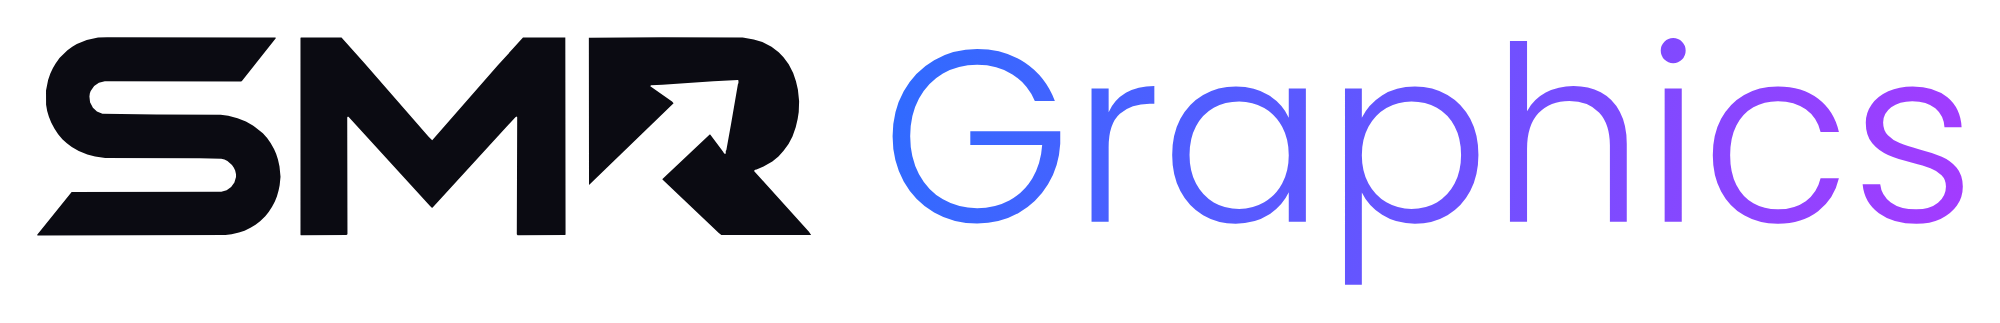
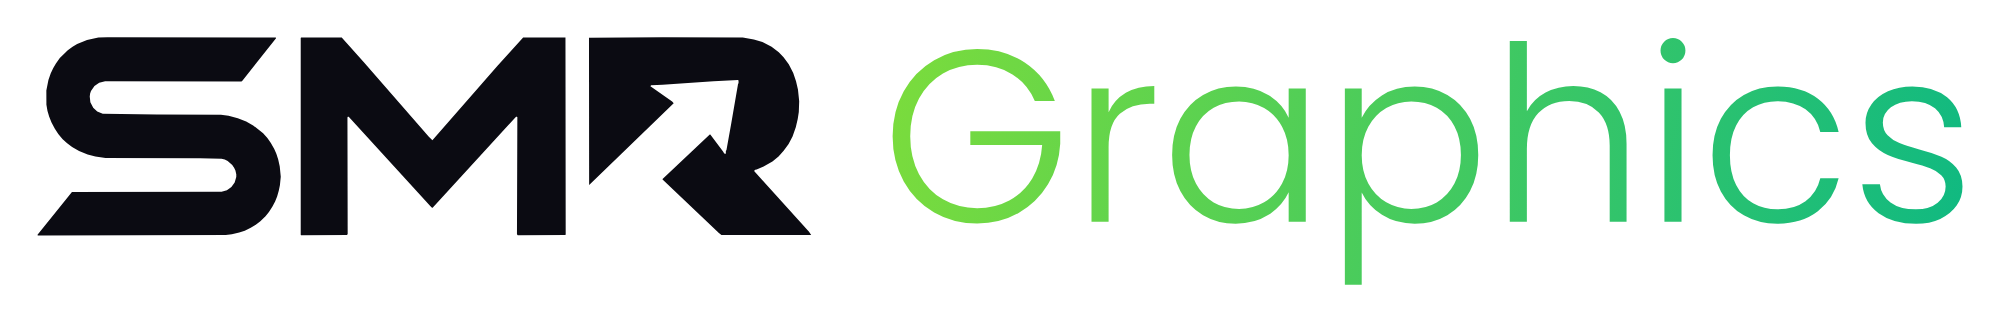
Graphics branding: lime→emerald gradient across the Graphics tab, intro splash and wordmarks
Claude-Session: https://claude.ai/code/session_01YJ1z4vHF3XLVwcpzAtDnW9

diff --git a/index.html b/index.html
@@ -25,7 +25,7 @@
 :root{
   --bg:#08080f; --bg2:#0e0e1a; --card:#13131f; --line:rgba(255,255,255,.08); --line2:rgba(255,255,255,.14);
   --ink:#f4f3fb; --mut:#a3a1b8; --dim:#6f6d86;
-  --a1:#2f6bff; --a2:#a43bff; --glow:rgba(120,80,255,.35);
+  --a1:#7bdc3c; --a2:#10b981; --glow:rgba(40,200,120,.3);
[1 lines of base64/hex data omitted]
   --r:20px; --safe-t:env(safe-area-inset-top,0px); --safe-b:env(safe-area-inset-bottom,0px);
   --ease:cubic-bezier(.2,.8,.2,1);
@@ -460,20 +460,20 @@ body[data-brand="plates"] .usp .ic svg{color:#170f00}
 .xs:hover{transform:translateY(-4px)}
 .xs .bgg{position:absolute;inset:0;opacity:.18;transition:opacity .4s}
 .xs:hover .bgg{opacity:.3}
-.xs[data-go="graphics"] .bgg{background:linear-gradient(110deg,#2f6bff,#a43bff)}
+.xs[data-go="graphics"] .bgg{background:linear-gradient(110deg,#7bdc3c,#10b981)}
 .xs[data-go="digital"] .bgg{background:linear-gradient(110deg,#5b5bff,#d63bff)}
 .xs[data-go="plates"] .bgg{background:linear-gradient(110deg,#ffd23f,#ff7a2f)}
 .new-tile-sec{padding-bottom:6px}
 .new-tile{position:relative;display:flex;align-items:center;gap:14px;padding:14px 16px;border-radius:20px;background:linear-gradient(#0e0e18,#0e0e18) padding-box,linear-gradient(110deg,#ffd23f,#ff7a2f) border-box;border:1.5px solid transparent;color:inherit;text-decoration:none;cursor:pointer;transition:transform .3s var(--ease)}
 .new-tile:hover{transform:translateY(-3px)}
-.mk-tile{background:linear-gradient(#0e0e18,#0e0e18) padding-box,linear-gradient(110deg,#2f6bff,#a43bff) border-box !important}
-.mk-tile .nt-badge{background:linear-gradient(110deg,#2f6bff,#a43bff);color:#fff}
-.mk-tile .nt-tx em{background:linear-gradient(110deg,#5b8bff,#c07bff);-webkit-background-clip:text;background-clip:text;color:transparent}
+.mk-tile{background:linear-gradient(#0e0e18,#0e0e18) padding-box,linear-gradient(110deg,#7bdc3c,#10b981) border-box !important}
+.mk-tile .nt-badge{background:linear-gradient(110deg,#7bdc3c,#10b981);color:#fff}
+.mk-tile .nt-tx em{background:linear-gradient(110deg,#9be86a,#34d399);-webkit-background-clip:text;background-clip:text;color:transparent}
 .mk-ico{flex:none;width:86px;height:56px;position:relative}
 .mk-ico i{position:absolute;border-radius:4px;box-shadow:0 6px 14px -6px rgba(0,0,0,.7)}
-.mk-ico i:nth-child(1){left:6px;top:4px;width:30px;height:48px;background:linear-gradient(160deg,#2f6bff,#a43bff)}
+.mk-ico i:nth-child(1){left:6px;top:4px;width:30px;height:48px;background:linear-gradient(160deg,#7bdc3c,#10b981)}
 .mk-ico i:nth-child(2){left:40px;top:14px;width:40px;height:26px;background:#fff;transform:rotate(-8deg)}
-.mk-ico i:nth-child(2)::after{content:"";position:absolute;inset:6px 8px;border-radius:2px;background:linear-gradient(110deg,#2f6bff,#a43bff);opacity:.85}
+.mk-ico i:nth-child(2)::after{content:"";position:absolute;inset:6px 8px;border-radius:2px;background:linear-gradient(110deg,#7bdc3c,#10b981);opacity:.85}
 .mk-ico i:nth-child(3){left:58px;top:36px;width:22px;height:16px;background:#ffd23f;transform:rotate(10deg)}
 .nt-badge{position:absolute;top:-9px;left:16px;padding:3px 9px;border-radius:999px;background:linear-gradient(110deg,#ffd23f,#ff7a2f);color:#170f00;font-size:10.5px;font-weight:800;letter-spacing:.08em;text-transform:uppercase}
 .nt-plate{flex:none;width:86px;height:26px;border-radius:5px;background:#ffd400;border:1.5px solid #111;display:grid;place-items:center;box-shadow:0 6px 16px -6px rgba(255,190,40,.6)}
@@ -867,7 +867,7 @@ img.o-hoodie{height:auto;object-fit:contain;filter:drop-shadow(0 26px 30px rgba(
 /* ---------- intro splash ---------- */
 #splash{position:fixed;inset:0;z-index:999;background:#07070d;display:grid;place-items:center;overflow:hidden;animation:spOut 3.4s cubic-bezier(.4,0,.2,1) forwards;cursor:pointer}
 #splash .bg{position:absolute;inset:-20%;opacity:0}
-#splash .bgA{background:radial-gradient(60% 45% at 25% 25%,rgba(47,107,255,.55),transparent 70%),radial-gradient(55% 45% at 80% 80%,rgba(164,59,255,.45),transparent 70%);animation:spA 3.4s linear forwards}
+#splash .bgA{background:radial-gradient(60% 45% at 25% 25%,rgba(123,220,60,.5),transparent 70%),radial-gradient(55% 45% at 80% 80%,rgba(16,185,129,.45),transparent 70%);animation:spA 3.4s linear forwards}
 #splash .bgB{background:radial-gradient(60% 45% at 25% 25%,rgba(255,61,139,.5),transparent 70%),radial-gradient(55% 45% at 80% 80%,rgba(255,138,61,.42),transparent 70%);animation:spB 3.4s linear forwards}
 #splash .bgC{background:radial-gradient(60% 45% at 25% 25%,rgba(110,70,255,.55),transparent 70%),radial-gradient(55% 45% at 80% 80%,rgba(226,60,220,.45),transparent 70%);animation:spC 3.4s linear forwards}
 #splash .inner{position:relative;--mh:min(6.8vw,58px);display:flex;flex-direction:row;align-items:center;gap:calc(var(--mh)*.42)}
@@ -875,7 +875,7 @@ img.o-hoodie{height:auto;object-fit:contain;filter:drop-shadow(0 26px 30px rgba(
 #splash .words{position:relative;width:calc(var(--mh)*3.84);animation:spWid 3.4s cubic-bezier(.4,0,.2,1) forwards;height:calc(var(--mh)*1.6)}
 #splash .w{position:absolute;inset:0;display:flex;justify-content:flex-start;align-items:center;opacity:0}
 #splash .w span{font-family:Poppins,system-ui,sans-serif;font-weight:300;font-size:calc(var(--mh)*1.24);line-height:1.25;padding-bottom:.12em;white-space:nowrap;-webkit-background-clip:text;background-clip:text;color:transparent}
-#splash .w0 span{background-image:linear-gradient(110deg,#2f6bff,#a43bff)}#splash .w1 span{background-image:linear-gradient(110deg,#ff3d8b,#ff8a3d)}#splash .w2 span{background-image:linear-gradient(110deg,#5b5bff,#d63bff)}
+#splash .w0 span{background-image:linear-gradient(110deg,#7bdc3c,#10b981)}#splash .w1 span{background-image:linear-gradient(110deg,#ff3d8b,#ff8a3d)}#splash .w2 span{background-image:linear-gradient(110deg,#5b5bff,#d63bff)}
 #splash .w0{animation:spW0 3.4s cubic-bezier(.2,.8,.2,1) forwards}
 #splash .w1{animation:spW1 3.4s cubic-bezier(.2,.8,.2,1) forwards}
 #splash .w2{animation:spW2 3.4s cubic-bezier(.2,.8,.2,1) forwards}
@@ -1103,7 +1103,7 @@ setTimeout(done,3700);})();
         <div class="obj o-card art"><img src="assets/work/chai-front.webp" alt=""></div>
         <div class="obj o-flyer art"><img src="assets/work/beefking-front.webp" alt=""></div>
         <img class="obj o-hoodie" src="assets/work/snw-polo-front.webp" alt="">
-        <div class="obj o-sticker"><svg viewBox="0 0 100 100"><defs><path id="cp" d="M50 50 m-37 0 a37 37 0 1 1 74 0 a37 37 0 1 1 -74 0"/><linearGradient id="sg" x1="0" x2="1"><stop offset="0" stop-color="#2f6bff"/><stop offset="1" stop-color="#a43bff"/></linearGradient></defs><g class="ring"><text font-family="Sora,Arial,sans-serif" font-weight="700" font-size="8.6" fill="#111"><textPath href="#cp" textLength="226" lengthAdjust="spacing">SMR GRAPHICS • DESIGN • PRINT • </textPath></text></g><circle cx="50" cy="50" r="20" fill="url(#sg)"/><path d="M41 50.5 L47.5 57 L59 44" stroke="#fff" stroke-width="4" fill="none" stroke-linecap="round" stroke-linejoin="round"/></svg></div>
+        <div class="obj o-sticker"><svg viewBox="0 0 100 100"><defs><path id="cp" d="M50 50 m-37 0 a37 37 0 1 1 74 0 a37 37 0 1 1 -74 0"/><linearGradient id="sg" x1="0" x2="1"><stop offset="0" stop-color="#7bdc3c"/><stop offset="1" stop-color="#10b981"/></linearGradient></defs><g class="ring"><text font-family="Sora,Arial,sans-serif" font-weight="700" font-size="8.6" fill="#111"><textPath href="#cp" textLength="226" lengthAdjust="spacing">SMR GRAPHICS • DESIGN • PRINT • </textPath></text></g><circle cx="50" cy="50" r="20" fill="url(#sg)"/><path d="M41 50.5 L47.5 57 L59 44" stroke="#fff" stroke-width="4" fill="none" stroke-linecap="round" stroke-linejoin="round"/></svg></div>
         <div class="obj o-tag"><i></i>Proof approved</div>
       </div></div>
     </div>

diff --git a/mockup.js b/mockup.js
@@ -63,7 +63,7 @@ function buildTex(){
 }
 
 /* ---------- placeholder art ---------- */
-function placeholder(){if(tex.ph)return tex.ph;return mkTex('ph',1000,1000,(c,w,h)=>{const g=c.createLinearGradient(0,0,w,h);g.addColorStop(0,'#2f6bff');g.addColorStop(1,'#a43bff');c.fillStyle=g;c.fillRect(0,0,w,h);
+function placeholder(){if(tex.ph)return tex.ph;return mkTex('ph',1000,1000,(c,w,h)=>{const g=c.createLinearGradient(0,0,w,h);g.addColorStop(0,'#7bdc3c');g.addColorStop(1,'#10b981');c.fillStyle=g;c.fillRect(0,0,w,h);
   c.fillStyle='rgba(255,255,255,.12)';for(let i=0;i<7;i++){c.beginPath();c.arc(w*.85,h*.15,120+i*110,0,7);c.lineWidth=2;c.strokeStyle='rgba(255,255,255,.08)';c.stroke()}
   c.fillStyle='#fff';c.textAlign='center';c.font='800 112px Sora,system-ui,sans-serif';c.fillText('YOUR',w/2,h*.46);c.fillText('DESIGN',w/2,h*.58);
   c.font='600 40px Manrope,system-ui,sans-serif';c.fillStyle='rgba(255,255,255,.8)';c.fillText('Upload it to see it here',w/2,h*.7)})}
@@ -213,7 +213,7 @@ const CSS=`
 .mk *{box-sizing:border-box}
 .mk-top{flex:none;display:flex;align-items:center;gap:10px;padding:12px 14px;border-bottom:1px solid rgba(255,255,255,.08);background:#0b0b12}
 .mk-top b{font:700 17px/1.1 Sora,system-ui,sans-serif}.mk-top small{display:block;font-size:11.5px;font-weight:700;color:#9a9ab0;letter-spacing:.03em}
-.mk-top .mk-g{background:linear-gradient(110deg,#2f6bff,#a43bff);-webkit-background-clip:text;background-clip:text;color:transparent;padding-bottom:2px}
+.mk-top .mk-g{background:linear-gradient(110deg,#7bdc3c,#10b981);-webkit-background-clip:text;background-clip:text;color:transparent;padding-bottom:2px}
 .mk-x{margin-left:auto;width:40px;height:40px;border-radius:50%;border:1px solid rgba(255,255,255,.14);background:rgba(255,255,255,.05);color:#fff;font-size:22px;line-height:1;cursor:pointer}
 .mk-body{flex:1;min-height:0;display:flex;flex-direction:column;overflow:hidden}
 .mk-stage{flex:none;position:relative;background:#14141e;display:flex;align-items:center;justify-content:center;padding:10px}
@@ -224,7 +224,7 @@ const CSS=`
 .mk-busy{position:absolute;inset:10px;border-radius:14px;background:rgba(11,11,18,.6);display:none;align-items:center;justify-content:center;font:700 15px Sora,system-ui,sans-serif}.mk.busy .mk-busy{display:flex}
 .mk-panel{flex:1;min-height:0;overflow-y:auto;-webkit-overflow-scrolling:touch;padding:14px 14px 28px}
 .mk-step{margin-bottom:18px}.mk-step>h4{margin:0 0 9px;font:700 13px/1 Sora,system-ui,sans-serif;letter-spacing:.02em;color:#c9c9dc;display:flex;align-items:center;gap:8px}
-.mk-step>h4 i{font-style:normal;width:21px;height:21px;border-radius:50%;display:grid;place-items:center;font-size:11px;background:linear-gradient(110deg,#2f6bff,#a43bff);color:#fff}
+.mk-step>h4 i{font-style:normal;width:21px;height:21px;border-radius:50%;display:grid;place-items:center;font-size:11px;background:linear-gradient(110deg,#7bdc3c,#10b981);color:#fff}
 .mk-up{display:flex;align-items:center;gap:12px;width:100%;padding:14px;border-radius:16px;border:1.5px dashed rgba(160,140,255,.55);background:rgba(120,100,255,.08);color:#fff;cursor:pointer;text-align:left}
 .mk-up svg{flex:none;width:30px;height:30px}
 .mk-up b{display:block;font:700 15px Sora,system-ui,sans-serif}.mk-up span{display:block;font-size:12.5px;color:#a8a8c0;margin-top:2px}
@@ -237,7 +237,7 @@ const CSS=`
 .mk-prods{display:grid;grid-template-columns:repeat(3,1fr);gap:8px}
 .mk-pr{display:flex;flex-direction:column;align-items:center;gap:6px;padding:11px 4px 9px;border-radius:14px;border:1.5px solid rgba(255,255,255,.1);background:rgba(255,255,255,.03);color:#e8e8f2;cursor:pointer;font:700 12px/1.15 Manrope,system-ui,sans-serif;text-align:center}
 .mk-pr svg{width:26px;height:26px;fill:none;stroke:currentColor;stroke-width:1.6;stroke-linecap:round;stroke-linejoin:round}
-.mk-pr.on{border-color:transparent;background:linear-gradient(#17142b,#17142b) padding-box,linear-gradient(110deg,#2f6bff,#a43bff) border-box;color:#fff}
+.mk-pr.on{border-color:transparent;background:linear-gradient(#17142b,#17142b) padding-box,linear-gradient(110deg,#7bdc3c,#10b981) border-box;color:#fff}
 .mk-chips{display:flex;flex-wrap:wrap;gap:7px}
 .mk-c{padding:9px 13px;border-radius:999px;border:1.5px solid rgba(255,255,255,.12);background:rgba(255,255,255,.03);color:#e8e8f2;font:700 13px Manrope,system-ui,sans-serif;cursor:pointer}
 .mk-c.on{background:#fff;color:#111;border-color:#fff}
@@ -250,7 +250,7 @@ const CSS=`
 .mk-act{display:grid;gap:9px}
 .mk-btn{display:flex;align-items:center;justify-content:center;gap:9px;width:100%;padding:15px;border-radius:16px;border:0;font:700 15px Sora,system-ui,sans-serif;cursor:pointer;color:#fff;text-decoration:none}
 .mk-btn svg{width:19px;height:19px}
-.mk-dl{background:linear-gradient(110deg,#2f6bff,#a43bff)}
+.mk-dl{background:linear-gradient(110deg,#7bdc3c,#10b981)}
 .mk-wa{background:#25d366;color:#06351a}
 .mk-sh{background:rgba(255,255,255,.08);border:1.5px solid rgba(255,255,255,.16)}
 .mk-share{display:none;padding:12px;border-radius:14px;background:rgba(255,255,255,.05);font-size:13px}.mk-share.on{display:block}

diff --git a/share/index.php b/share/index.php
@@ -24,13 +24,13 @@ $mark = @file_get_contents(SITE_ROOT . '/assets/smr-mark.svg') ?: '';
 *{box-sizing:border-box}html,body{margin:0;background:#0b0b12;color:#f2f2f7;font-family:Manrope,system-ui,-apple-system,sans-serif}
 .top{display:flex;align-items:center;gap:10px;padding:14px 18px;border-bottom:1px solid rgba(255,255,255,.08)}
 .top a{display:flex;align-items:center;gap:10px;color:#fff;text-decoration:none}.top svg{height:22px;width:auto}
-.top span{font:300 22px/1 Poppins,system-ui,sans-serif;background:linear-gradient(110deg,<?= $plate ? '#ffd23f,#ff7a2f' : '#2f6bff,#a43bff' ?>);-webkit-background-clip:text;background-clip:text;color:transparent;padding-bottom:3px}
+.top span{font:300 22px/1 Poppins,system-ui,sans-serif;background:linear-gradient(110deg,<?= $plate ? '#ffd23f,#ff7a2f' : '#7bdc3c,#10b981' ?>);-webkit-background-clip:text;background-clip:text;color:transparent;padding-bottom:3px}
 main{max-width:1100px;margin:0 auto;padding:18px 16px 40px}
 h1{font:700 22px/1.2 Sora,system-ui,sans-serif;margin:4px 0 4px}p.sub{margin:0 0 14px;color:#9a9ab0;font-size:13.5px}
 .pic{border-radius:16px;overflow:hidden;background:#14141e;box-shadow:0 24px 60px -24px rgba(0,0,0,.8)}.pic img{display:block;width:100%;height:auto;-webkit-user-drag:none;user-select:none}
 .row{display:flex;gap:10px;flex-wrap:wrap;margin-top:16px}
 .b{flex:1 1 220px;display:flex;align-items:center;justify-content:center;gap:9px;padding:15px;border-radius:16px;font:700 15px Sora,system-ui,sans-serif;text-decoration:none}
-.b.pri{background:linear-gradient(110deg,<?= $plate ? '#ffd23f,#ff7a2f' : '#2f6bff,#a43bff' ?>);color:<?= $plate ? '#1a0f00' : '#fff' ?>}.b.wa{background:#25d366;color:#06351a}
+.b.pri{background:linear-gradient(110deg,<?= $plate ? '#ffd23f,#ff7a2f' : '#7bdc3c,#10b981' ?>);color:<?= $plate ? '#1a0f00' : '#fff' ?>}.b.wa{background:#25d366;color:#06351a}
 .note{margin-top:14px;font-size:12px;color:#7d7d95;text-align:center}
 .gone{padding:60px 10px;text-align:center}.gone p{color:#9a9ab0}
 </style></head><body>

diff --git a/.github/tools/brand_wordmarks.py b/.github/tools/brand_wordmarks.py
@@ -6,7 +6,7 @@ import re
 F=TTFont('/usr/share/fonts/truetype/google-fonts/Poppins-Light.ttf'); gs=F.getGlyphSet(); cmap=F.getBestCmap(); upm=F['head'].unitsPerEm
 mark=open('/home/claude/smr-website/assets/smr-mark.svg').read()
 md=re.search(r' d="([^"]+)"',mark).group(1)
-WORDS={'digital':('Digital','#5b5bff','#d63bff'),'graphics':('Graphics','#2f6bff','#a43bff'),'marketing':('Marketing','#ff3d8b','#ff8a3d'),'plates':('Plates','#ffd23f','#ff7a2f'),'player':('Player','#5b5bff','#d63bff'),'studio':('Studio','#5b5bff','#d63bff'),'admin':('Admin','#5b5bff','#d63bff')}
+WORDS={'digital':('Digital','#5b5bff','#d63bff'),'graphics':('Graphics','#7bdc3c','#10b981'),'marketing':('Marketing','#ff3d8b','#ff8a3d'),'plates':('Plates','#ffd23f','#ff7a2f'),'player':('Player','#5b5bff','#d63bff'),'studio':('Studio','#5b5bff','#d63bff'),'admin':('Admin','#5b5bff','#d63bff'),'printing':('Printing','#7bdc3c','#10b981')}
 EM=240.0   # word size in mark units (mark is 1000 x 256.4 = 76 x 19.5 px at 24 px text)
 s=EM/upm*(19.5/ (EM/24*19.5/ (1000*19.5/76/ (EM/24))) ) if False else None
 # mark px->units: 76px = 1000 units -> 1px = 13.158 units; text 24px = 315.8 units

diff --git a/CLAUDE.md b/CLAUDE.md
@@ -6,10 +6,10 @@ Owner: Summar (SMR Graphics / SMR Digital / SMR Plates, Luton). He edits the sit
 - One static site for smrgraphics.co.uk and smrdigital.co.uk. `index.html` holds all CSS, HTML and JS; `plate.js` renders the number plates; images live in `assets/`.
 - Three tabs: Digital, Graphics, Marketing (`#digital`, `#graphics`, `#marketing`). The site always lands on Digital (the app/website pitch) unless a hash says otherwise. Plates is its own page at `smrgraphics.co.uk/plates` (root .htaccess rewrite to index.html; `go()` switches the URL between `/plates` and `/#tab`), reached from the "Plates" link in the desktop header, the mobile menu, the footer and a "New · Number plates" tile on Graphics; it has a "Back to SMR Graphics" link.
 - Digital = apps & websites (hero "High-end apps & websites. Insanely affordable.", portfolio, Smash N Wings, app features, "What you get" #d-features: admin dashboard, booking, shop tablet, loyalty, push/SMS, no commission). Marketing = social media tiers (#m-social, white) and content (#m-content, lavender) inside a white .light-run like Digital; Instagram @smrdigitaluk. The intro splash cycles graphics → marketing → digital.
-- Dark theme, mobile-first. Brand gradient: Graphics blue→purple, Digital purple→pink, Marketing pink→orange, Plates yellow→orange. Fonts: Sora (headings), Manrope (body), Poppins light (logo word). Logo = white SMR mark with the brand word beside it in the brand gradient (header: Digital/Graphics/Marketing/Plates, slides to the new word on tab switch; intro splash: mark + Graphics → Marketing → Digital in each gradient).
+- Dark theme, mobile-first. Brand gradient: Graphics lime→emerald (#7bdc3c→#10b981, owner 28 Nov; was blue→purple), Digital purple→pink, Marketing pink→orange, Plates yellow→orange. Fonts: Sora (headings), Manrope (body), Poppins light (logo word). Logo = white SMR mark with the brand word beside it in the brand gradient (header: Digital/Graphics/Marketing/Plates, slides to the new word on tab switch; intro splash: mark + Graphics → Marketing → Digital in each gradient).
 
 ## Brand wordmarks: the g must never be cut off (owner rule, 22 Nov)
-- Ready-made logos in `assets/brand/`: smr-digital / smr-graphics / smr-marketing / smr-plates / smr-player / smr-studio, each as `.svg` (white mark, for dark backgrounds), `-dark.svg` (black mark, for light backgrounds) and a 2000px transparent `.png` of each. The word is outlined Poppins Light in its brand gradient with the full descender inside the picture, so the g in Digital, Graphics, Marketing and Player can't be clipped. Live: smrgraphics.co.uk/assets/brand/smr-digital.svg etc. The capital letter (D, G, M, P) is centred exactly on the SMR mark's centre line, and every picture has clear space round the tallest letter and the g/p/y tails. Rebuild with .github/tools/brand_wordmarks.py (fontTools over Poppins-Light.ttf + assets/smr-mark.svg) if a word is added.
+- Ready-made logos in `assets/brand/`: smr-digital / smr-graphics / smr-marketing / smr-plates / smr-player / smr-studio / smr-printing (lime→emerald, like Graphics), each as `.svg` (white mark, for dark backgrounds), `-dark.svg` (black mark, for light backgrounds) and a 2000px transparent `.png` of each. The word is outlined Poppins Light in its brand gradient with the full descender inside the picture, so the g in Digital, Graphics, Marketing and Player can't be clipped. Live: smrgraphics.co.uk/assets/brand/smr-digital.svg etc. The capital letter (D, G, M, P) is centred exactly on the SMR mark's centre line, and every picture has clear space round the tallest letter and the g/p/y tails. Rebuild with .github/tools/brand_wordmarks.py (fontTools over Poppins-Light.ttf + assets/smr-mark.svg) if a word is added.
 - In any page, graphic, video or document (any chat), use these files instead of typing "SMR Digital" etc. as live text. If the word must be live text (an animation), use line-height ≥ 1.3, never overflow:hidden or a tight box round it without padding-bottom ≥ .15em, and check a screenshot zoomed in on the g before publishing. Never clip a background-clip:text word with line-height:1.
 
 ## Badge animation
